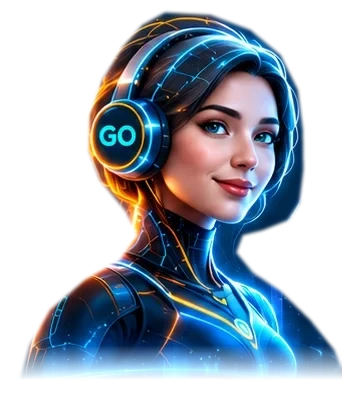
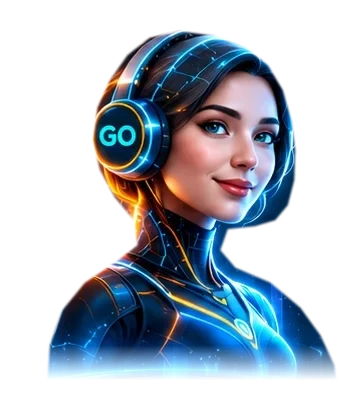
Hologram without the leftover halo; «الرئيسية» opens the program home

diff --git a/public/dashboard/js/home-hud.js b/public/dashboard/js/home-hud.js
@@ -200,7 +200,7 @@
         removers.forEach(function (remove) { remove(); }); document.documentElement.classList.remove('go-hud-open');
     }
     document.documentElement.classList.add('go-hud-open');
-    on(enter, 'click', leave); on(root, 'click', drawersClick); on(document, 'keydown', keydown); on(document, 'go:home-data', onData); on(document, 'dashboard:order-alert-state', alertState);
+    root.querySelectorAll('[data-hud-enter]').forEach(function (button) { on(button, 'click', leave); }); on(root, 'click', drawersClick); on(document, 'keydown', keydown); on(document, 'go:home-data', onData); on(document, 'dashboard:order-alert-state', alertState);
     on(document, 'visibilitychange', visibility); on(document, 'dashboard:before-unload', dispose); on(window, 'pagehide', dispose);
     on(root, 'pointermove', gaze, {passive: true}); on(root, 'pointerleave', restGaze);
     on(window, 'resize', wakeBackground); if (reduce && reduce.addEventListener) on(reduce, 'change', wakeBackground);

diff --git a/resources/views/admin/home_hud.blade.php b/resources/views/admin/home_hud.blade.php
@@ -49,7 +49,7 @@
         <button type="button" class="hv2-action is-voice" data-hv2-voice><svg viewBox="0 0 24 24" aria-hidden="true"><path d="M4 14v-2a8 8 0 0 1 16 0v2 M4 14h3v6H4z M17 14h3v6h-3z M17 20a5 5 0 0 1-5 2"/></svg><span>تحدث مع GO</span></button>
         <span class="hv3-sep" aria-hidden="true"></span>
         <a class="hv2-action is-logout" href="{{ url('/admin/adminLogout') }}"><svg viewBox="0 0 24 24" aria-hidden="true"><path d="M12 2v10 M18.4 6.6a9 9 0 1 1-12.8 0"/></svg><span>خروج</span></a>
-        <a class="hv2-action is-home" href="{{ url('/admin/dashboard') }}" aria-current="page"><svg viewBox="0 0 24 24" aria-hidden="true"><path d="m3 11 9-8 9 8M5 10v11h14V10M9 21v-7h6v7"/></svg><span>الرئيسية</span></a>
+        <button type="button" class="hv2-action is-home" data-hud-enter><svg viewBox="0 0 24 24" aria-hidden="true"><path d="m3 11 9-8 9 8M5 10v11h14V10M9 21v-7h6v7"/></svg><span>الرئيسية</span></button>
     </div>
 @else
     <button class="hud-enter" data-hud-enter type="button"><svg viewBox="0 0 24 24" aria-hidden="true"><path d="m3 11 9-8 9 8M5 10v11h14V10M9 21v-7h6v7"/></svg><span>الدخول للرئيسية</span></button>
